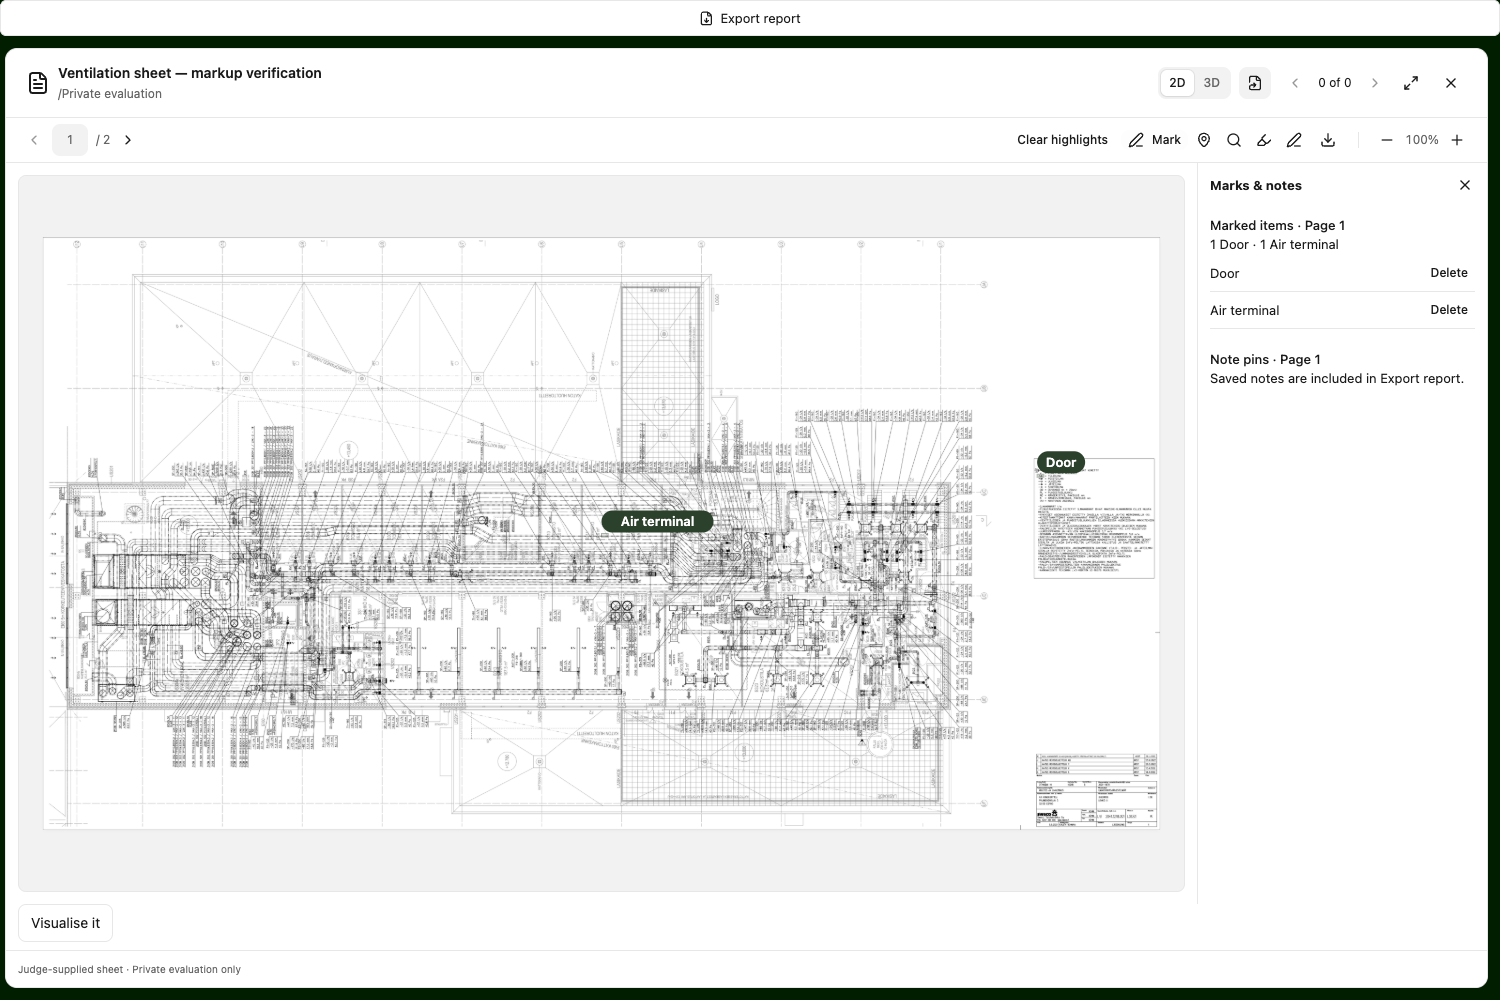
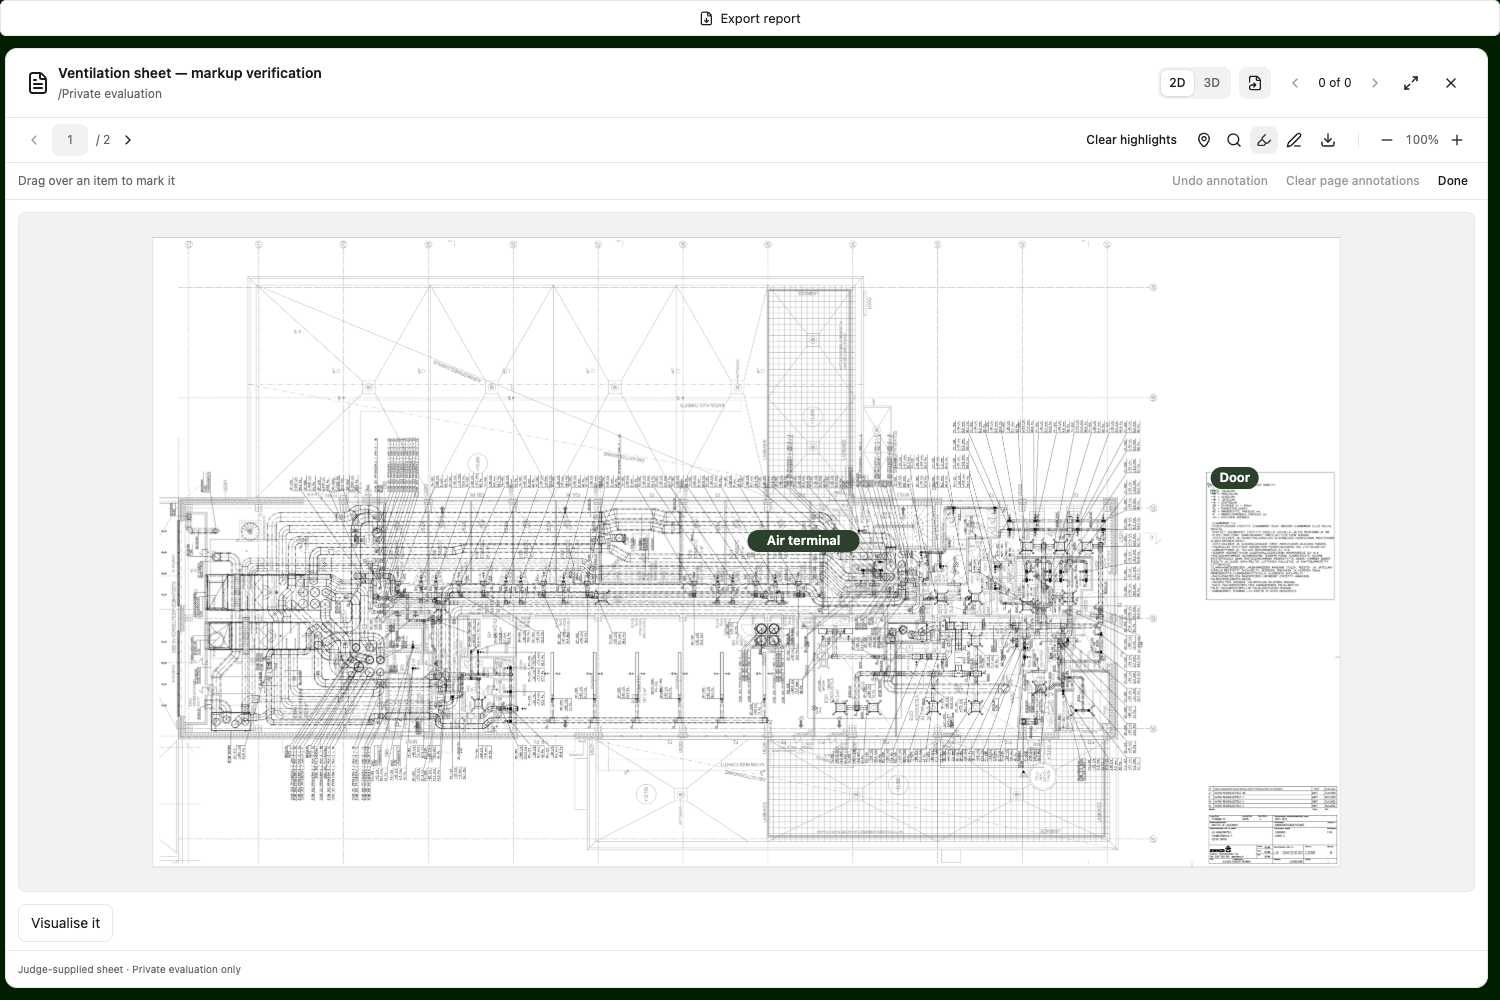
F-MARKUP: Tell Stoa bubble is a small free-text pill with the Stoa mark, no chips; dragging with the highlighter opens it, Mark tool and notes button removed
Claude-Session: https://claude.ai/code/session_01GYqh9VWiXR7AfuxwTwDLZf

diff --git a/web/src/components/viewer-tools/tell-stoa-bubble.css b/web/src/components/viewer-tools/tell-stoa-bubble.css
@@ -1,26 +1,22 @@
-.tell-stoa { position: absolute; z-index: 6; left: 0; top: 0; width: var(--bubble-w); transform: translate(var(--bubble-x), var(--bubble-y)); display: flex; flex-direction: column; align-items: flex-start; gap: 6px; cursor: default; user-select: none; animation: tell-stoa-in 140ms var(--ease-settle-wide, ease-out); }
+.tell-stoa { position: absolute; z-index: 6; left: 0; top: 0; width: var(--bubble-w); transform: translate(var(--bubble-x), var(--bubble-y)); display: flex; flex-direction: column; align-items: center; gap: 5px; cursor: default; user-select: none; animation: tell-stoa-in 140ms var(--ease-settle-wide, ease-out); }
 @keyframes tell-stoa-in { from { opacity: 0; } to { opacity: 1; } }
-.tell-stoa-composer { width: 100%; display: flex; align-items: center; gap: 6px; padding: 5px 5px 5px 16px; border-radius: 999px; border: 1px solid rgb(255 255 255 / 0.55); background: rgb(236 236 238 / 0.62); -webkit-backdrop-filter: blur(18px) saturate(1.4); backdrop-filter: blur(18px) saturate(1.4); box-shadow: 0 6px 24px rgb(0 0 0 / 0.16), 0 0 0 0.5px rgb(0 0 0 / 0.12); }
+.tell-stoa-composer { width: 100%; display: flex; align-items: center; gap: 6px; padding: 3px 3px 3px 12px; border-radius: 999px; border: 1px solid rgb(255 255 255 / 0.55); background: rgb(236 236 238 / 0.62); -webkit-backdrop-filter: blur(18px) saturate(1.4); backdrop-filter: blur(18px) saturate(1.4); box-shadow: 0 6px 24px rgb(0 0 0 / 0.16), 0 0 0 0.5px rgb(0 0 0 / 0.12); }
 .tell-stoa-composer:focus-within { box-shadow: 0 6px 24px rgb(0 0 0 / 0.18), 0 0 0 2px var(--primary, #1a1a1a); }
-.tell-stoa-composer input { flex: 1; min-width: 0; border: 0; outline: 0; background: transparent; font: inherit; font-size: var(--text-body-sm, 14px); color: var(--primary, #1a1a1a); user-select: text; }
+.tell-stoa-composer input { flex: 1; min-width: 0; border: 0; outline: 0; background: transparent; font: inherit; font-size: var(--text-caption, 12px); color: var(--primary, #1a1a1a); user-select: text; }
 .tell-stoa-composer input::placeholder { color: rgb(60 60 67 / 0.6); }
-.tell-stoa-send { flex: none; width: 30px; height: 30px; border-radius: 50%; border: 0; display: grid; place-items: center; background: var(--primary, #1a1a1a); color: var(--primary-foreground, #fff); cursor: pointer; transition: opacity 120ms, background 120ms; }
+.tell-stoa-send { flex: none; width: 22px; height: 22px; border-radius: 50%; border: 0; display: grid; place-items: center; background: var(--primary, #1a1a1a); color: var(--primary-foreground, #fff); cursor: pointer; transition: opacity 120ms, background 120ms; }
 .tell-stoa-send:hover:not(:disabled) { background: color-mix(in srgb, var(--primary, #1a1a1a) 82%, white); }
 .tell-stoa-send:disabled { opacity: 0.35; cursor: default; }
 .tell-stoa-send:focus-visible, .tell-stoa-pill:focus-visible { outline: 2px solid var(--primary, #1a1a1a); outline-offset: 2px; }
-.tell-stoa-chips { display: flex; flex-wrap: wrap; gap: 4px; max-width: 100%; padding: 6px; border-radius: 16px; border: 1px solid rgb(255 255 255 / 0.55); background: rgb(236 236 238 / 0.62); -webkit-backdrop-filter: blur(18px) saturate(1.4); backdrop-filter: blur(18px) saturate(1.4); box-shadow: 0 6px 24px rgb(0 0 0 / 0.12); }
-.tell-stoa-chip { padding: 2px 9px; border-radius: 999px; border: 1px solid rgb(0 0 0 / 0.14); background: rgb(255 255 255 / 0.6); color: var(--foreground, #1a1a1a); font: inherit; font-size: var(--text-caption, 12px); line-height: 18px; cursor: pointer; }
-.tell-stoa-chip:hover:not(:disabled) { background: rgb(255 255 255 / 0.95); }
-.tell-stoa-chip[aria-pressed='true'] { background: var(--primary, #1a1a1a); color: var(--primary-foreground, #fff); border-color: transparent; }
-.tell-stoa-chip.is-legend { border-style: dashed; }
-.tell-stoa-chip:focus-visible, .tell-stoa-delete:focus-visible { outline: 2px solid var(--primary, #1a1a1a); outline-offset: 2px; }
 .tell-stoa-foot { display: flex; align-items: center; gap: 10px; }
 .tell-stoa-delete { border: 0; background: rgb(255 255 255 / 0.75); border-radius: 999px; padding: 3px 10px; font: inherit; font-size: var(--text-caption, 12px); color: var(--warning, #b45309); cursor: pointer; }
-.tell-stoa-status { margin: 0 0 0 14px; min-height: 0; font-size: var(--text-caption, 12px); color: var(--primary, #1a1a1a); background: rgb(255 255 255 / 0.7); border-radius: 6px; padding: 0 6px; }
+.tell-stoa-status { margin: 0; min-height: 0; font-size: var(--text-caption, 12px); color: var(--primary, #1a1a1a); background: rgb(255 255 255 / 0.7); border-radius: 6px; padding: 0 6px; }
 .tell-stoa-status:empty { display: none; }
 .tell-stoa-status[role='alert'] { color: var(--warning, #b45309); }
-.tell-stoa-pill { position: relative; display: inline-flex; align-items: center; gap: 6px; margin-left: 12px; padding: 4px 10px 4px 8px; border-radius: 999px; background: var(--primary, #1a1a1a); color: var(--primary-foreground, #fff); font-size: var(--text-caption, 12px); font-weight: 500; line-height: 16px; cursor: help; }
-.tell-stoa-tip { position: absolute; left: 0; top: calc(100% + 6px); width: 260px; padding: 8px 10px; border-radius: 10px; background: var(--primary, #1a1a1a); color: var(--primary-foreground, #fff); font-weight: 400; line-height: 1.4; opacity: 0; pointer-events: none; transition: opacity 120ms; }
+.tell-stoa-pill { position: relative; display: inline-flex; align-items: center; gap: 5px; padding: 3px 9px 3px 6px; border-radius: 999px; background: var(--primary, #1a1a1a); color: var(--primary-foreground, #fff); font-size: var(--text-caption, 12px); font-weight: 500; line-height: 16px; cursor: help; }
+.tell-stoa-tip { position: absolute; left: 50%; transform: translateX(-50%); top: calc(100% + 6px); width: 240px; text-align: left; padding: 8px 10px; border-radius: 10px; background: var(--primary, #1a1a1a); color: var(--primary-foreground, #fff); font-weight: 400; line-height: 1.4; opacity: 0; pointer-events: none; transition: opacity 120ms; }
 .tell-stoa-pill:hover .tell-stoa-tip, .tell-stoa-pill:focus .tell-stoa-tip { opacity: 1; }
 @media (prefers-reduced-motion: reduce) { .tell-stoa, .tell-stoa-send, .tell-stoa-tip { animation: none; transition: none; } }
 @media (forced-colors: active) { .tell-stoa-composer { border-color: CanvasText; background: Canvas; } }
+
+.tell-stoa-logo { display: block; width: 12px; height: 12px; background: currentColor; -webkit-mask: url(/brand/stoa-logo.svg) left center / auto 100% no-repeat; mask: url(/brand/stoa-logo.svg) left center / auto 100% no-repeat; }

diff --git a/web/src/components/viewer-tools/tell-stoa-bubble.tsx b/web/src/components/viewer-tools/tell-stoa-bubble.tsx
@@ -1,17 +1,17 @@
 import { useEffect, useId, useRef, useState } from 'react'
 import type { CSSProperties, KeyboardEvent } from 'react'
-import { TAUGHT_KINDS, kindFor } from './taught-kinds'
+import { kindFor } from './taught-kinds'
 
 export type Box = [number, number, number, number]
 
-const WIDTH = 320
+const WIDTH = 196
 const GAP = 10
 const MARGIN = 8
-const HEIGHT = 150 // composer, chips and the label pill: decides whether it fits below the box
+const HEIGHT = 74 // composer and the label pill: decides whether it fits below the box
 
 /** Where the bubble sits, in stage pixels: under the box, flipped above when the stage edge is too close, clamped inside. */
 export function bubbleSpot(box: Box, view: { x: number; y: number; scale: number }, stage: { width: number; height: number }) {
-  const width = Math.min(WIDTH, Math.max(160, stage.width - MARGIN * 2))
+  const width = Math.min(WIDTH, Math.max(150, stage.width - MARGIN * 2))
   const left = view.x + box[0] * view.scale
   const top = view.y + box[1] * view.scale, bottom = view.y + box[3] * view.scale
   const below = bottom + GAP, above = top - GAP - HEIGHT
@@ -20,14 +20,12 @@ export function bubbleSpot(box: Box, view: { x: number; y: number; scale: number
   return { x, y: Math.max(MARGIN, y), width }
 }
 
-export function TellStoaBubble({ box, view, stage, busy, error, legend, initial, onSave, onDelete, onClose }: {
+export function TellStoaBubble({ box, view, stage, busy, error, initial, onSave, onDelete, onClose }: {
   box: Box
   view: { x: number; y: number; scale: number }
   stage: { width: number; height: number }
   busy: boolean
   error?: string
-  /** Words from the sheet's own legend, offered as extra chips. */
-  legend?: string[]
   /** Set when editing a saved mark: the field starts with its name. */
   initial?: { name: string; kind: string | null }
   onSave: (name: string, kind: string | null) => void
@@ -35,12 +33,11 @@ export function TellStoaBubble({ box, view, stage, busy, error, legend, initial,
   onClose: () => void
 }) {
   const [text, setText] = useState(initial?.name ?? '')
-  const [chosen, setChosen] = useState<string | null>(initial?.kind ?? null)
   const input = useRef<HTMLInputElement>(null)
-  const hint = useId(), tip = useId()
+  const tip = useId(), problem = useId()
   const spot = bubbleSpot(box, view, stage)
-  const mapped = chosen ? TAUGHT_KINDS.find((kind) => kind.id === chosen) ?? null : kindFor(text)
-  const extra = (legend ?? []).filter((word) => !TAUGHT_KINDS.some((kind) => kind.label.toLowerCase() === word.toLowerCase())).slice(0, 4)
+  // The engine maps the typed words to a standard kind itself; the kind is only sent along when we already know it.
+  const mapped = kindFor(text)
   useEffect(() => { input.current?.focus({ preventScroll: true }); input.current?.select() }, [])
   function send() {
     const value = text.trim()
@@ -56,22 +53,15 @@ export function TellStoaBubble({ box, view, stage, busy, error, legend, initial,
     onPointerDown={(event) => event.stopPropagation()} onWheel={(event) => event.stopPropagation()} onKeyDown={keys}>
     <div className="tell-stoa-composer">
       <input ref={input} type="text" value={text} maxLength={160} placeholder="Mark this as… (e.g. door)" autoComplete="off"
-        aria-label="What the highlighted item is" aria-describedby={hint} disabled={busy} onChange={(event) => { setText(event.target.value); setChosen(null) }} />
+        aria-label="What the highlighted item is" aria-describedby={error ? problem : undefined} disabled={busy} onChange={(event) => setText(event.target.value)} />
       <button type="button" className="tell-stoa-send" aria-label={initial ? 'Save changes' : 'Save mark'} disabled={!text.trim() || busy} onClick={send}>
-        <svg viewBox="0 0 16 16" width="16" height="16" aria-hidden="true"><path d="M8 13V3M3.5 7.5 8 3l4.5 4.5" fill="none" stroke="currentColor" strokeWidth="1.8" strokeLinecap="round" strokeLinejoin="round" /></svg>
+        <svg viewBox="0 0 16 16" width="12" height="12" aria-hidden="true"><path d="M8 13V3M3.5 7.5 8 3l4.5 4.5" fill="none" stroke="currentColor" strokeWidth="1.8" strokeLinecap="round" strokeLinejoin="round" /></svg>
       </button>
     </div>
-    <div className="tell-stoa-chips" role="group" aria-label="Common items">
-      {TAUGHT_KINDS.map((kind) => <button key={kind.id} type="button" className="tell-stoa-chip" aria-pressed={mapped?.id === kind.id && (chosen === kind.id || kindFor(text)?.id === kind.id)} disabled={busy}
-        onClick={() => { setText(kind.label); setChosen(kind.id); input.current?.focus() }}>{kind.label}</button>)}
-      {extra.map((word) => <button key={word} type="button" className="tell-stoa-chip is-legend" disabled={busy} onClick={() => { setText(word); setChosen(null); input.current?.focus() }}>{word}</button>)}
-    </div>
-    <p id={hint} className="tell-stoa-status" role={error ? 'alert' : 'status'}>
-      {error || (busy ? 'Saving…' : mapped ? `Counts as: ${mapped.label}` : text.trim() ? `Saved as your own item: ${text.trim()}` : '')}
-    </p>
+    {error && <p id={problem} className="tell-stoa-status" role="alert">{error}</p>}
     <div className="tell-stoa-foot">
       <span className="tell-stoa-pill" tabIndex={0} aria-describedby={tip}>
-        <svg viewBox="0 0 16 16" width="12" height="12" aria-hidden="true"><path d="M3 4h10M4.5 4v8M8 4v8M11.5 4v8M3 12.5h10" fill="none" stroke="currentColor" strokeWidth="1.4" strokeLinecap="round" /></svg>
+        <span className="tell-stoa-logo" aria-hidden="true" />
         Tell Stoa
         <span id={tip} role="tooltip" className="tell-stoa-tip">Tell Stoa what this is. Stoa saves it and counts it as that item in every answer, the 3D model and reports.</span>
       </span>

diff --git a/web/src/components/document-viewer.tsx b/web/src/components/document-viewer.tsx
@@ -317,7 +317,12 @@ export function DocumentViewer({ answer, citation: originalCitation, sheet, onCl
   }
   function finishAnnotation(pointerId: number, save: boolean) {
     if (drawingPointer.current !== pointerId) return
-    if (save && draftRef.current) annotations.add(draftRef.current)
+    if (save && draftRef.current?.tool === 'marker') {
+      // Dragging with the highlighter marks an item: the Tell Stoa bubble opens for the dragged box.
+      const [a, b] = draftRef.current.points
+      const box: [number, number, number, number] = [Math.min(a.x, b.x), Math.min(a.y, b.y), Math.max(a.x, b.x), Math.max(a.y, b.y)]
+      if (box[2] - box[0] >= 4 && box[3] - box[1] >= 4) markup.select({ box })
+    } else if (save && draftRef.current) annotations.add(draftRef.current)
     drawingPointer.current = null; draftRef.current = null; setDraft(null)
   }
   function chooseTool(next: MarkupTool) {
@@ -390,7 +395,7 @@ export function DocumentViewer({ answer, citation: originalCitation, sheet, onCl
       <Button variant="ghost" size="icon-xs" aria-label="Next match" disabled={!hits.length} onClick={() => setHitIndex((hitIndex + 1) % hits.length)}><ChevronRight size={14} /></Button>
       <Button variant="ghost" size="icon-xs" aria-label="Close sheet search" onClick={closeSearch}><X size={14} /></Button>
     </div>}
-    {mode === '2d' && (tool !== 'pan' || annotations.marks.length > 0) && <div className="viewer-annotation-controls"><span>{tool === 'marker' ? 'Drag to highlight an area' : tool === 'pen' ? 'Draw on the sheet' : 'Annotations saved on this device'}</span><Button variant="ghost" size="xs" disabled={!annotations.marks.length} onClick={annotations.undo}>Undo annotation</Button><Button variant="ghost" size="xs" disabled={!annotations.marks.length} onClick={annotations.clear}>Clear page annotations</Button>{tool !== 'pan' && <Button variant="ghost" size="xs" onClick={() => chooseTool('pan')}>Done</Button>}</div>}
+    {mode === '2d' && (tool !== 'pan' || annotations.marks.length > 0) && <div className="viewer-annotation-controls"><span>{tool === 'marker' ? 'Drag over an item to mark it' : tool === 'pen' ? 'Draw on the sheet' : 'Annotations saved on this device'}</span><Button variant="ghost" size="xs" disabled={!annotations.marks.length} onClick={annotations.undo}>Undo annotation</Button><Button variant="ghost" size="xs" disabled={!annotations.marks.length} onClick={annotations.clear}>Clear page annotations</Button>{tool !== 'pan' && <Button variant="ghost" size="xs" onClick={() => chooseTool('pan')}>Done</Button>}</div>}
     {(downloadError || annotations.warning) && <p className="viewer-tool-error" role="alert">{downloadError || annotations.warning}</p>}
     {mode === '2d' && specCitation && !specOpen && <Button className="viewer-passage-control" variant="ghost" size="sm" onClick={() => setSpecOpen(true)}>Show cited passage</Button>}
     <div className="viewer-item-layout" hidden={mode === '3d'}>
@@ -494,7 +499,7 @@ export function DocumentViewer({ answer, citation: originalCitation, sheet, onCl
         const mark = markup.editing ? markup.symbols.find((m) => m.id === markup.editing) : undefined
         const box = mark ? markBox(mark) : markup.selection && 'box' in markup.selection ? markup.selection.box : null
         if (!box) return null
-        return <TellStoaBubble key={mark?.id ?? 'new'} box={box as [number, number, number, number]} view={view} stage={viewport} busy={markup.busy} error={markup.error} legend={markup.data.suggestions}
+        return <TellStoaBubble key={mark?.id ?? 'new'} box={box as [number, number, number, number]} view={view} stage={viewport} busy={markup.busy} error={markup.error}
           initial={mark ? { name: mark.name, kind: mark.canonical_kind ?? null } : undefined}
           onSave={(name, kind) => mark ? markup.rename(mark.id, name, kind) : markup.mark(name, kind)}
           onDelete={mark ? () => markup.remove(mark.id) : undefined} onClose={markup.cancel} />

diff --git a/web/e2e/markup.spec.ts b/web/e2e/markup.spec.ts
@@ -38,7 +38,7 @@ test('mark single items on a dense sheet, edit one, delete one, keep a pin', asy
   await setup(page)
   await page.goto('/e2e/markup-viewer.html')
   await expect(page.locator('.drawing-plane > img')).toBeVisible()
-  await page.getByRole('button', { name: 'Mark an item', exact: true }).click()
+  await page.getByRole('button', { name: 'Highlight marker', exact: true }).click()
   await expect.poll(() => page.locator('.drawing-stage').evaluate((n) => n.clientHeight)).toBeGreaterThan(100)
   await page.getByRole('button', { name: 'Fit drawing', exact: true }).click()
   await drag(page, 0.89, 0.40, 0.896, 0.405)
@@ -49,20 +49,18 @@ test('mark single items on a dense sheet, edit one, delete one, keep a pin', asy
   const at = (await bubble.boundingBox())!
   await page.screenshot({ path: `${output}/tell-stoa-bubble-close.png`, clip: { x: Math.max(0, at.x - 260), y: Math.max(0, at.y - 160), width: 620, height: 330 } })
   await bubble.getByRole('textbox').fill('door')
-  await expect(bubble.getByRole('status')).toHaveText('Counts as: Door')
+  await expect(bubble.locator('.tell-stoa-chip, .tell-stoa-status')).toHaveCount(0)
   await page.keyboard.press('Enter')
   await expect(bubble).toHaveCount(0)
   const tags = page.locator('.taught-mark')
   await expect(tags).toHaveCount(1)
   await expect(tags.first().locator('text')).toHaveText('Door')
-  // A second, ad hoc item: pick a chip, send with the button.
-  await page.getByRole('button', { name: 'Mark an item', exact: true }).click()
+  // A second, ad hoc item: free text, send with the button. The highlighter stays on.
   await drag(page, 0.5, 0.5, 0.506, 0.506)
-  await page.getByTestId('tell-stoa').getByRole('button', { name: 'Air terminal' }).click()
+  await page.getByTestId('tell-stoa').getByRole('textbox').fill('Air terminal')
   await page.getByRole('button', { name: 'Save mark' }).click()
   await expect(tags).toHaveCount(2)
   await page.screenshot({ path: `${output}/tell-stoa-marked.png` })
-  await expect(page.locator('.markup-count')).toContainText('1 Door · 1 Air terminal')
   // Saved marks show on a plain page load, without opening the Marks panel.
   await page.reload()
   await expect(page.locator('.drawing-plane > img')).toBeVisible()
@@ -95,7 +93,7 @@ test('the Tell Stoa bubble fits a phone screen and Escape closes it', async ({ p
   await page.setViewportSize({ width: 390, height: 844 })
   await page.goto('/e2e/markup-viewer.html')
   await expect(page.locator('.drawing-plane > img')).toBeVisible()
-  await page.getByRole('button', { name: 'Mark an item', exact: true }).click()
+  await page.getByRole('button', { name: 'Highlight marker', exact: true }).click()
   await expect.poll(() => page.locator('.drawing-stage').evaluate((n) => n.clientHeight)).toBeGreaterThan(100)
   await drag(page, 0.2, 0.2, 0.23, 0.24)
   const bubble = page.getByTestId('tell-stoa')

diff --git a/web/src/components/viewer-tools/symbol-markup.tsx b/web/src/components/viewer-tools/symbol-markup.tsx
@@ -50,9 +50,9 @@ export function useSymbolMarkup(docId: string, page: number) {
     toggle(next: 'label' | 'pin') { setOpen(true); setSelection(null); setEditing(null); setMode((old) => old === next ? null : next) },
     close() { setOpen(false); setMode(null); setSelection(null); setEditing(null) },
     showNotes() { setOpen(true); setMode(null); setSelection(null); setEditing(null) },
-    select(value: Selection) { setSelection(value); setEditing(null); setMode(null); setOpen(true) },
+    select(value: Selection) { setSelection(value); setEditing(null); setMode(null) },
     cancel() { setSelection(null); setEditing(null); setMode(null) },
-    edit(id: string | null) { setEditing(id); setSelection(null); setMode(null); setOpen(true) },
+    edit(id: string | null) { setEditing(id); setSelection(null); setMode(null) },
     reload() { setLoaded(false); setError(''); setOpen(false); requestAnimationFrame(() => setOpen(true)) },
     /** Saves the highlighted box as one item of the given kind. No matching of similar marks. */
     mark(name: string, kind: string | null) {
@@ -105,9 +105,7 @@ export const markBox = (s: TaughtSymbol): Bbox => s.matches?.[0]?.bbox ?? s.temp
 export const markName = (s: TaughtSymbol) => kindLabel(s.canonical_kind, s.name)
 type Markup = ReturnType<typeof useSymbolMarkup>
 export function SymbolMarkupTools({ markup, disabled, onActivate }: { markup: Markup; disabled: boolean; onActivate: () => void }) {
-  return <><Button variant="ghost" size="xs" aria-label="Mark an item" aria-pressed={markup.mode === 'label'} disabled={disabled || markup.busy} onClick={() => { onActivate(); markup.toggle('label') }}><PenLine size={16} />Mark</Button>
-    <Button variant="ghost" size="icon-sm" aria-label="Place a note pin" aria-pressed={markup.mode === 'pin'} disabled={disabled || markup.busy} onClick={() => { onActivate(); markup.toggle('pin') }}><MapPin size={16} /></Button>
-    {!markup.open && <Button variant="ghost" size="xs" onClick={() => { onActivate(); markup.showNotes() }}>Marks & notes</Button>}</>
+  return <Button variant="ghost" size="icon-sm" aria-label="Place a note pin" aria-pressed={markup.mode === 'pin'} disabled={disabled || markup.busy} onClick={() => { onActivate(); markup.toggle('pin') }}><MapPin size={16} /></Button>
 }
 
 export function SymbolMarkupLayer({ markup, image, scale }: { markup: Markup; image: Size; scale: number }) {

diff --git a/web/src/components/viewer-tools/tell-stoa-bubble.test.tsx b/web/src/components/viewer-tools/tell-stoa-bubble.test.tsx
@@ -27,7 +27,7 @@ describe('bubbleSpot', () => {
     expect(bubbleSpot(props.box, props.view, props.stage).y).toBe(170)
     expect(bubbleSpot(props.box, { x: 0, y: 0, scale: 2 }, props.stage).x).toBe(200)
     expect(bubbleSpot([100, 500, 200, 560], props.view, props.stage).y).toBeLessThan(500)
-    expect(bubbleSpot([790, 100, 800, 160], props.view, props.stage).x).toBeLessThanOrEqual(800 - 320 - 8)
+    expect(bubbleSpot([790, 100, 800, 160], props.view, props.stage).x).toBeLessThanOrEqual(800 - 196 - 8)
   })
 })
 
@@ -39,22 +39,20 @@ describe('TellStoaBubble', () => {
     expect(input.placeholder).toMatch(/Mark this as/)
     expect(document.activeElement).toBe(input)
     type(input, 'door')
-    expect(q('.tell-stoa-status').textContent).toBe('Counts as: Door')
+    expect(host.querySelector('.tell-stoa-status, .tell-stoa-chip')).toBeNull()
     key(input, 'Enter')
     expect(onSave).toHaveBeenCalledWith('door', 'door')
   })
-  it('a chip sets the kind, free text is the user\'s own kind, and Escape closes', () => {
+  it('shows no chips or kind line, sends free text with no kind, and Escape closes', () => {
     const onSave = vi.fn(), onClose = vi.fn()
-    show(<TellStoaBubble {...props} legend={['FD']} onSave={onSave} onClose={onClose} />)
+    show(<TellStoaBubble {...props} onSave={onSave} onClose={onClose} />)
     expect(q<HTMLButtonElement>('.tell-stoa-send').disabled).toBe(true)
-    const chip = Array.from(host.querySelectorAll<HTMLButtonElement>('.tell-stoa-chip')).find((b) => b.textContent === 'Window')!
-    act(() => chip.click())
-    act(() => q<HTMLButtonElement>('.tell-stoa-send').click())
-    expect(onSave).toHaveBeenLastCalledWith('Window', 'window')
+    expect(host.querySelector('.tell-stoa-chips, .tell-stoa-chip')).toBeNull()
     type(q('input'), 'D-swing')
-    expect(q('.tell-stoa-status').textContent).toMatch(/your own item/)
+    expect(host.querySelector('.tell-stoa-status')).toBeNull()
     act(() => q<HTMLButtonElement>('.tell-stoa-send').click())
     expect(onSave).toHaveBeenLastCalledWith('D-swing', null)
+    expect(q('.tell-stoa-pill .tell-stoa-logo')).toBeTruthy()
     expect(q('[role=tooltip]').textContent).toMatch(/counts it as that item/)
     key(q('input'), 'Escape')
     expect(onClose).toHaveBeenCalled()
